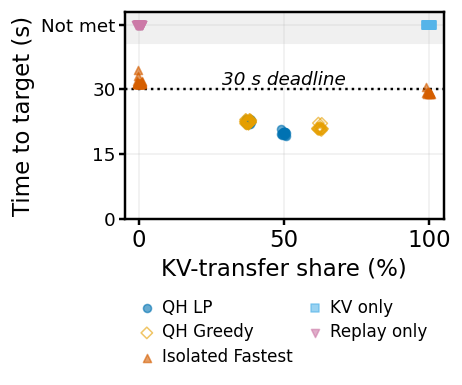
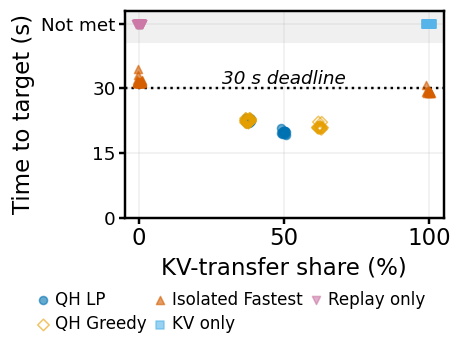
Use three-column scatter legends and reduce figure height

diff --git a/agent-migrate/queue-haul/plot_wan_prefill_tradeoff.py b/agent-migrate/queue-haul/plot_wan_prefill_tradeoff.py
@@ -63,7 +63,7 @@ def plot(root, out):
     out.mkdir(parents=True, exist_ok=True)
     for campaign in ("wan", "prefill"):
         selected_campaign = [r for r in points if r["campaign"] == campaign]
-        fig, ax = plt.subplots(figsize=(2.1, 1.75))
+        fig, ax = plt.subplots(figsize=(2.1, 1.6))
         for policy in POLICIES:
             selected = sorted((r for r in selected_campaign if r["policy"] == policy),
                               key=lambda r: (r["state_id"], int(r["repeat"])))
@@ -86,10 +86,10 @@ def plot(root, out):
         ax.xaxis.labelpad = ax.yaxis.labelpad = 2
         ax.grid(alpha=.2, linewidth=.5)
         ax.set_axisbelow(True)
-        fig.legend(*ax.get_legend_handles_labels(), loc="lower center", bbox_to_anchor=(.61, .01),
-                   ncol=2, frameon=False, fontsize=5.5, handlelength=1.2,
-                   handletextpad=.3, columnspacing=.7, labelspacing=.4)
-        fig.subplots_adjust(left=.27, right=.96, bottom=.43, top=.97)
+        fig.legend(*ax.get_legend_handles_labels(), loc="lower center", bbox_to_anchor=(.5, .01),
+                   ncol=3, frameon=False, fontsize=5.5, handlelength=.8,
+                   handletextpad=.3, columnspacing=.4, labelspacing=.4)
+        fig.subplots_adjust(left=.27, right=.96, bottom=.38, top=.97)
         save(fig, out / f"{campaign}_action_attainment")
     with (out / "action_attainment.csv").open("w") as stream:
         writer = csv.DictWriter(stream, fieldnames=points[0], lineterminator="\n")

diff --git a/agent-migrate/queue-haul/README.md b/agent-migrate/queue-haul/README.md
@@ -2698,7 +2698,7 @@ These are descriptive episode ECDFs, not evidence of a causal prefill transition
 `wan_action_attainment` and `prefill_action_attainment` PDFs/PNGs plus
 `action_attainment.csv` in the same `pooled/` directory. Each point is one episode: 260 WAN and
 195 prefill points, with 13 repeats per case and policy. Each class is pooled
-into one 2.1 × 1.75 inch scatter, excluding the 10 Gb/s WAN control and zero-load
+into one 2.1 × 1.6 inch scatter, excluding the 10 Gb/s WAN control and zero-load
 prefill control. Small translucent markers show every non-control episode with
 deterministic horizontal offsets of at most ±1 percentage point to expose
 overlapping choices; attainment times and CSV KV shares remain exact.
